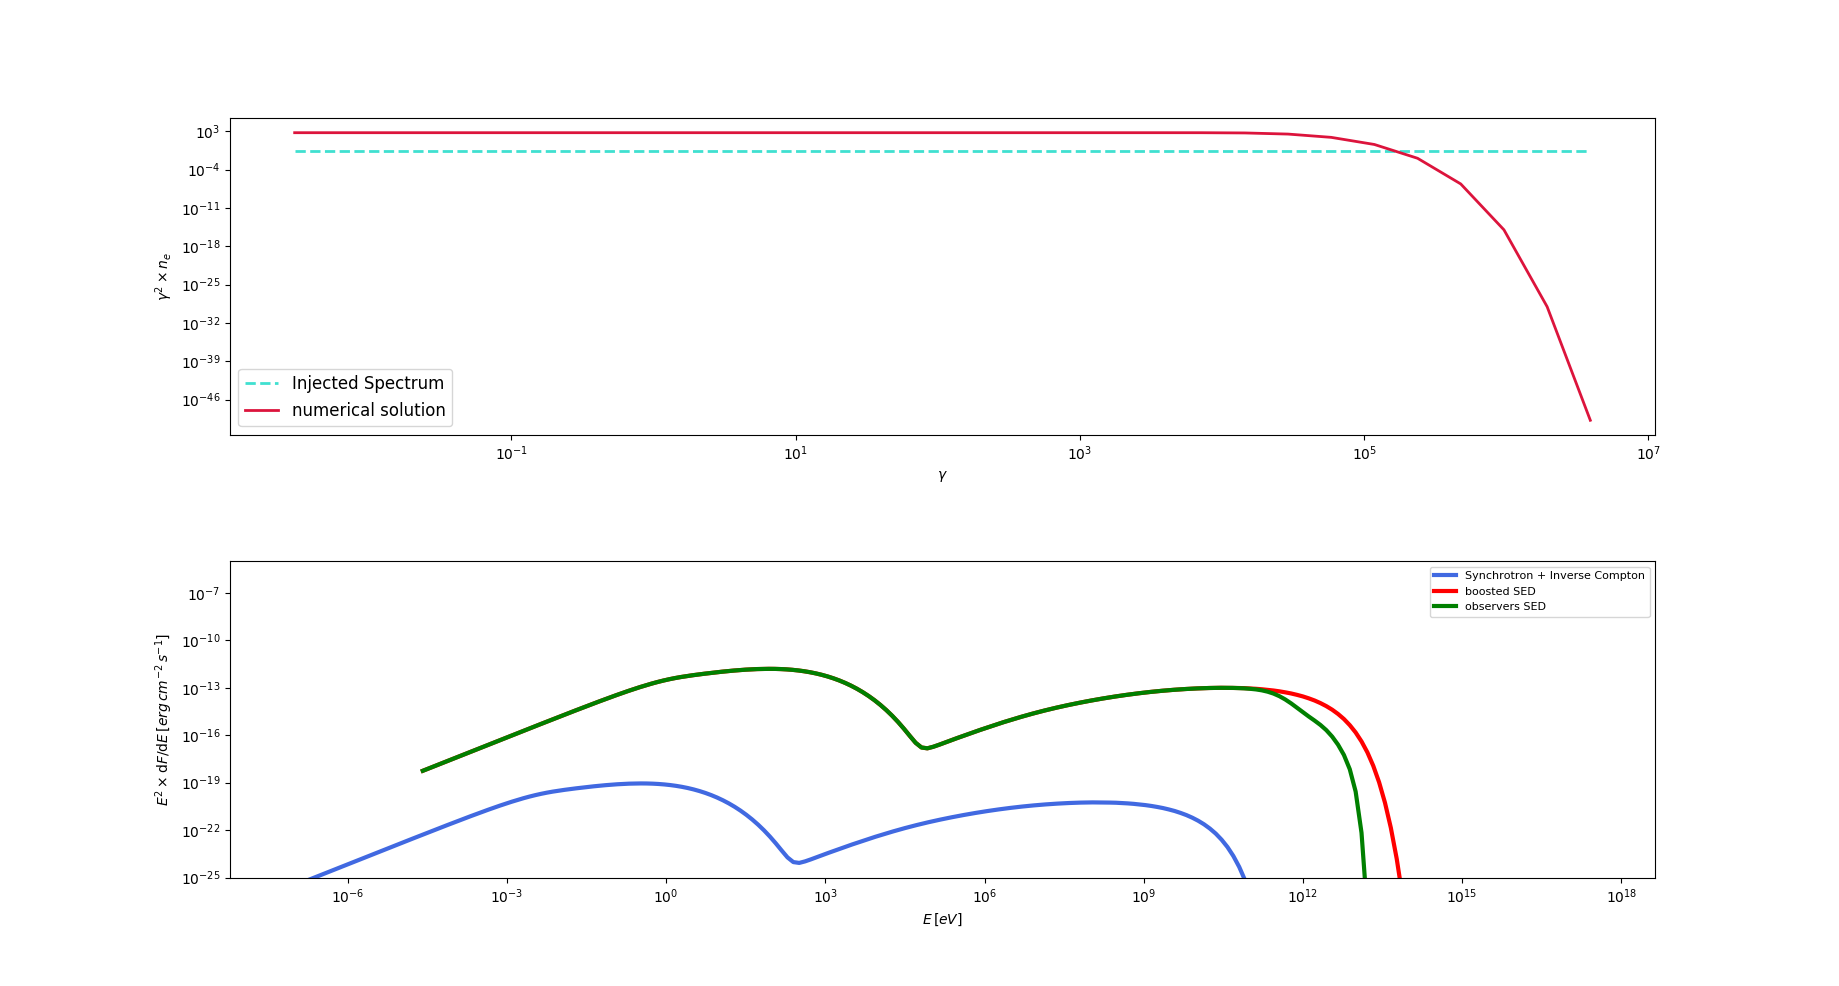
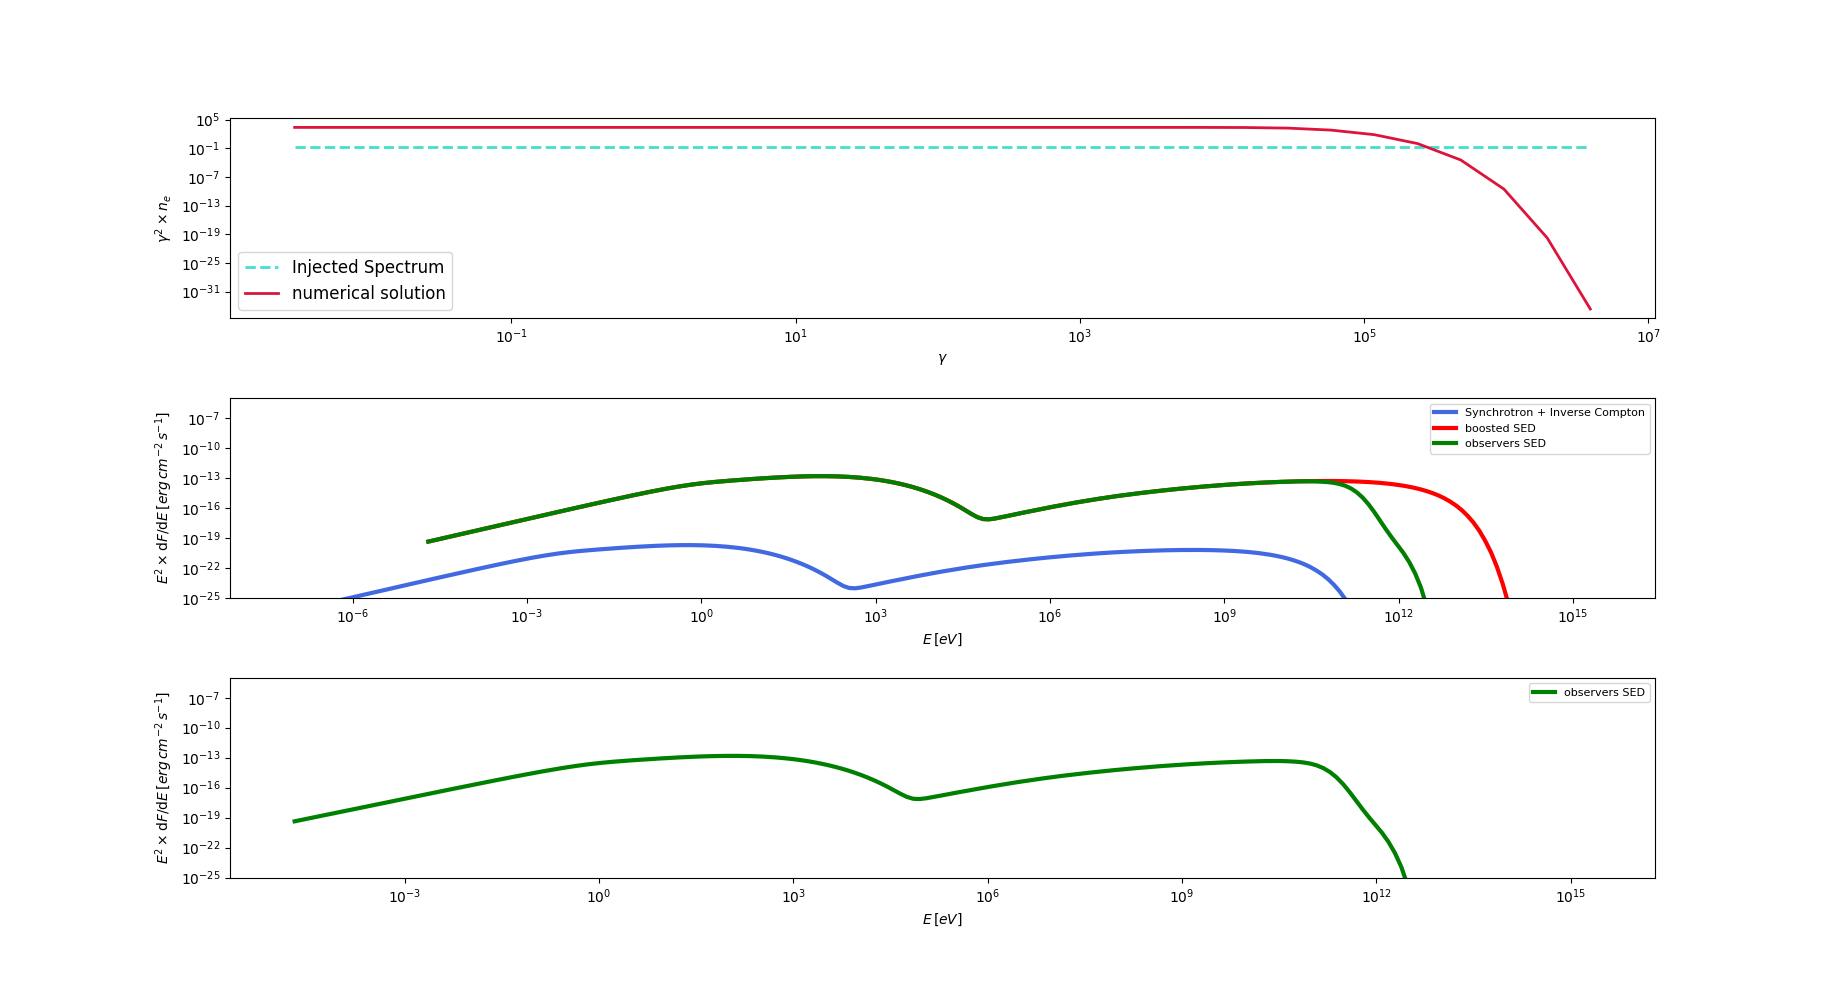
Defining Doppler Boosting and EBL as a function in numerics Adding the model emission_region parameters: gamma (bulk Lorentz-Factor), z (redshift of emission region), theta (observation angle to the jet)

diff --git a/SSC_test.py b/SSC_test.py
@@ -12,10 +12,10 @@ from ssc_model import model, numerics
 import astropy.units as u
 import timeit
 
-time_grid = dict(time_min = 0., time_max = 10., time_bins = 200)
-gamma_grid = dict(gamma_min = 6e-3, gamma_max = 3.9e6, gamma_bins = 30)
-emission_region = dict(R = 5.8e15, B = 0.04, t_esc = 1.5, gamma = 100, theta = 0, z = 1)
-injected_spectrum = dict(norm = 2.2e-1, alpha = -2, t_inj = 5.)
+time_grid = dict(time_min = 0., time_max = 0.07, time_bins = 100)
+gamma_grid = dict(gamma_min = 1e-2, gamma_max = 1e6, gamma_bins = 1000)
+emission_region = dict(R = 1e16, B = 1, t_esc = 1.5, gamma = 100, theta = 0, z = 1)
+injected_spectrum = dict(norm = 2.2e-1, alpha = -2, t_inj = 0.1)
 
 start = timeit.default_timer()
 
@@ -44,42 +44,44 @@ print 'Computational time: '
 print stop - start, ' s'
 
 # plotting section
-fig, axes = plt.subplots(3, 1)
+fig, axes = plt.subplots(1, 1)
 fig.subplots_adjust(hspace = 0.4)
 font = {'family': 'serif',  'color':'black', 'weight': 'normal', 'size': 16.} # font definitions
 
 # first plot with electron spectrum
-axes[0].plot(SSC.gamma_grid, SSC.gamma_grid**2*SSC.N_e_inj,  ls = '--', lw=2, marker = '',
+axes.plot(SSC.gamma_grid, SSC.gaussian_injection,  ls = '--', lw=2, marker = '',
             color = 'turquoise', label = 'Injected Spectrum')
-axes[0].plot(SSC.gamma_grid, SSC.gamma_grid**2*N_e,  ls = '-', lw=2, marker = '',
-            color = 'crimson', label = 'numerical solution')
-axes[0].legend(loc = 0, numpoints = 1., prop = {'size':12.})
-axes[0].set_xscale('log')
-axes[0].set_xlabel(r'$\gamma$')
-axes[0].set_ylabel(r'$\gamma^2 \times n_{e}$')
-axes[0].set_yscale('log')
+axes.plot(SSC.gamma_grid, N_e,  ls = '-', lw=2, marker = '',
+          color = 'crimson', label = 'numerical solution')
+axes.legend(loc = 0, numpoints = 1., prop = {'size':12.})
+axes.set_xscale('log')
+axes.set_xlabel(r'$\gamma$')
+axes.set_ylabel(r'$n_{e}$')
+axes.set_xlim(1e2, 2e5)
+axes.set_ylim(1e-8, 1e-4)
+axes.set_yscale('log')
 
 
 
 
-axes[1].plot(energy, SED, lw=3, color='royalblue', label='Synchrotron + Inverse Compton')
-axes[1].plot(boosted_energy, boosted_SED, lw=3, color='red', label='boosted SED')
-axes[1].plot(boosted_energy, final_SED, lw=3, color='green', label='observers SED')
-axes[1].legend(loc = 0, numpoints = 1., prop = {'size':8.})
-axes[1].set_xlabel(r'$E\,[eV]$')
-axes[1].set_ylabel(r'$E^{2} \times {\rm d}F/{\rm d}E\,[erg\,cm^{-2}\,s^{-1}]$')
-axes[1].set_ylim(1e-25, 1e-5)
-axes[1].set_xscale('log')
-axes[1].set_yscale('log')
+#axes[1].plot(energy, SED, lw=3, color='royalblue', label='Synchrotron + Inverse Compton')
+#axes[1].plot(boosted_energy, boosted_SED, lw=3, color='red', label='boosted SED')
+#axes[1].plot(boosted_energy, final_SED, lw=3, color='green', label='observers SED')
+#axes[1].legend(loc = 0, numpoints = 1., prop = {'size':8.})
+#axes[1].set_xlabel(r'$E\,[eV]$')
+#axes[1].set_ylabel(r'$E^{2} \times {\rm d}F/{\rm d}E\,[erg\,cm^{-2}\,s^{-1}]$')
+#axes[1].set_ylim(1e-25, 1e-5)
+#axes[1].set_xscale('log')
+#axes[1].set_yscale('log')
 
 
-axes[2].plot(boosted_energy, final_SED, lw=3, color='green', label='observers SED')
-axes[2].legend(loc = 0, numpoints = 1., prop = {'size':8.})
-axes[2].set_xlabel(r'$E\,[eV]$')
-axes[2].set_ylabel(r'$E^{2} \times {\rm d}F/{\rm d}E\,[erg\,cm^{-2}\,s^{-1}]$')
-axes[2].set_ylim(1e-25, 1e-5)
-axes[2].set_xscale('log')
-axes[2].set_yscale('log')
+#axes[1].plot(boosted_energy, final_SED, lw=3, color='green', label='observers SED')
+#axes[1].legend(loc = 0, numpoints = 1., prop = {'size':8.})
+#axes[1].set_xlabel(r'$E\,[eV]$')
+#axes[1].set_ylabel(r'$E^{2} \times {\rm d}F/{\rm d}E\,[erg\,cm^{-2}\,s^{-1}]$')
+#axes[1].set_ylim(1e-25, 1e5)
+#axes[1].set_xscale('log')
+#axes[1].set_yscale('log')
 
 
 

diff --git a/ssc_model/model.py b/ssc_model/model.py
@@ -117,10 +117,12 @@ class model:
     def gaussian_injection(self):
         '''
         will initialize an array for gaussian injection
+        an extra gamma_grid is needed
         '''
-        mu = 1e3
-        sigma = mu/10
+        mu = 1e5
+        sigma = mu/1000
         l = 1e-3
-        A = l*self.R*m_e*c**3/(np.sqrt(2*pi)*sigma*sigma_T)/10**10
+        A = l*self.R*m_e*c**3/(np.sqrt(2*pi)*sigma*sigma_T)
+        A=9e-9
 
         return np.array([A*np.exp(-(gamma-mu)**2/(2*sigma**2)) for gamma in self.gamma_grid])

diff --git a/ssc_model/numerics.py b/ssc_model/numerics.py
@@ -134,10 +134,10 @@ class numerics:
         '''
         # injected spectrum
 
-        N_e = self.model.N_e_inj
+        N_e = 0.
         # injecton term, to be added each delta_t up to the maximum injection time
         # specified by model.inj_time
-        Q_e = self.model.powerlaw_injection
+        Q_e = self.model.gaussian_injection
         delta_t = self.model.delta_t
 
         # time grid loop
